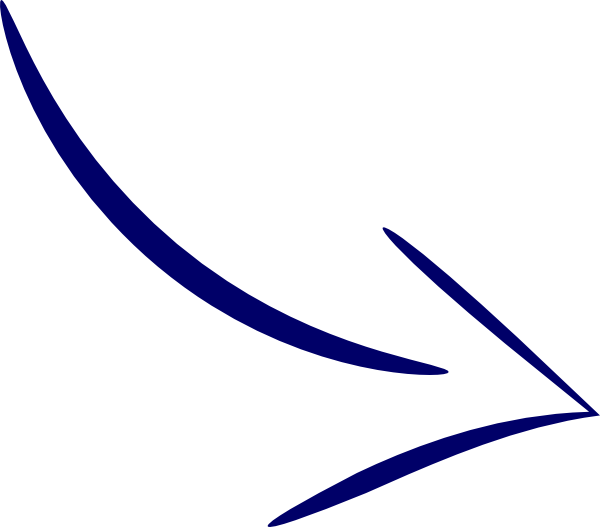
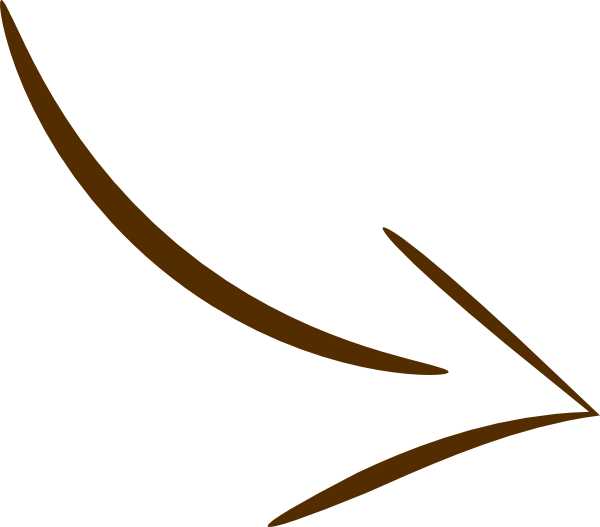
Design Changes

Changed region(s): [[0.0, 0.0, 0.75, 0.7287], [0.45, 0.425, 1.0, 1.0]]

diff --git a/src/components/HomePage.vue b/src/components/HomePage.vue
@@ -1,21 +1,24 @@
 <template>
-  <div>
-    <h1>
-      Time transforms everything.
-    </h1>
+  <div class="main-info">
+    <h1 class="intro">Time transforms everything.</h1>
     <img src="https://live.staticflickr.com/121/313964396_4b6d90497e_b.jpg" />
     <p>
-      As the years go by, <b>people</b>, <b>natural landscapes</b>, <b>cities</b> and all aspects of
-      <b>human civilization</b>
+      As the years go by, <b class="emphasized">people</b>,
+      <b class="emphasized">natural landscapes</b>, <b class="emphasized">cities</b> and all aspects
+      of
+      <b class="emphasized">human civilization</b>
       are changing.
     </p>
     <p>
-      The photos are time imprints and the idea for this app is to make use of photo collections
-      that will connect the user easily and quickly to the recent past.
+      The photos are <b class="emphasized">time imprints</b> and the idea for this app is to make
+      use of <b class="emphasized">photo collections</b> that will connect the user easily and
+      quickly to the <b class="emphasized">recent past</b>.
     </p>
     <p>
-      This can help us learn <b>history</b>, understand the <b>evolution</b>, appreciate what we
-      have gained with <b>progress</b>, and even reflect on what we have <b>lost</b>....
+      This can help us learn <b class="emphasized">history</b>, understand
+      <b class="emphasized">evolution</b>, appreciate what we have gained with
+      <b class="emphasized">progress</b>, and even reflect on what we have
+      <b class="emphasized">lost</b>....
     </p>
     <h1>
       Welcome, to<br />
@@ -31,20 +34,34 @@ export default {
 </script>
 
 <style scoped>
+.intro {
+  font-size: 35px;
+  color: black;
+}
+.main-info {
+  margin: 3% 25%;
+  padding: 2% 0;
+  background: #682f0050;
+  border-radius: 20%;
+}
+.emphasized {
+  font-size: 110%;
+  color: black;
+}
 h1 {
   margin-top: 2%;
 }
 img {
-  width: 12%;
+  width: 20%;
   border-radius: 50%;
 }
 p {
   font-size: 26px;
-  margin: 3% 20%;
+  margin: 3% 10%;
 }
 .title-app {
   font-size: 150%;
-  color: rgb(14, 39, 103);
+  color: #682f00;
   margin-top: 20px;
 }
 </style>

diff --git a/src/components/Photos.vue b/src/components/Photos.vue
@@ -26,7 +26,7 @@
             <div class="time-rail">Timespan: {{ photo.timespan }}</div>
           </div>
 
-          <div class="photo-info">
+          <div class="photo-info" psda>
             <h1>{{ photo.title }}</h1>
             <h2>{{ photo.location_text }}, {{ photo.country }}</h2>
           </div>
@@ -66,12 +66,14 @@ export default {
 .back-year {
   width: 100%;
   margin: 0 40%;
+  user-select: none;
 }
 .time-arrow {
   z-index: 100;
   position: absolute;
   top: 175%;
   right: 31%;
+  user-select: none;
 }
 .hooper-container {
   margin-top: 30px;
@@ -86,14 +88,14 @@ export default {
   text-decoration: underline;
 }
 .left-image {
-  border: 15px solid darkblue;
+  border: 15px solid darkslategray;
   border-radius: 20px;
   width: 85% !important;
   max-height: 700px !important;
 }
 .right-image {
   border-radius: 20px;
-  border: 15px solid darkslategray;
+  border: 15px solid #682f00;
   width: 85% !important;
   max-height: 700px !important;
 }
@@ -117,19 +119,19 @@ export default {
   cursor: ew-resize !important;
   transform: rotate(90deg);
   opacity: 0.6;
-  border: 5px solid rgb(14, 39, 103) !important;
+  border: 5px solid rgb(51, 28, 12) !important;
 }
 .left-arrow {
-  border-color: rgba(0, 0, 0, 0) rgb(14, 39, 103) rgba(0, 0, 0, 0) rgba(0, 0, 0, 0) !important;
+  border-color: rgba(0, 0, 0, 0) rgb(51, 28, 12) rgba(0, 0, 0, 0) rgba(0, 0, 0, 0) !important;
 }
 .right-arrow {
-  border-color: rgba(0, 0, 0, 0) rgba(0, 0, 0, 0) rgba(0, 0, 0, 0) rgb(14, 39, 103) !important;
+  border-color: rgba(0, 0, 0, 0) rgba(0, 0, 0, 0) rgba(0, 0, 0, 0) rgb(51, 28, 12) !important;
 }
 .line {
   width: 0px !important;
 }
 .now-then {
-  color: black;
+  color: rgb(51, 28, 12);
   font-size: 18px;
   height: 20px;
   margin: 5px 0px 15px 0px;

diff --git a/src/components/Header.vue b/src/components/Header.vue
@@ -47,7 +47,7 @@ export default {
   padding-bottom: 10px;
   border-bottom: 5px solid rgba(37, 35, 35, 0.7);
   font-size: 35px;
-  color: rgb(14, 39, 103);
+  color: #682f00;
 }
 #nav {
   margin-top: 20px;
@@ -56,7 +56,7 @@ export default {
 .header a {
   font-weight: bold;
   font-size: 22px !important;
-  color: rgb(14, 39, 103);
+  color: darkslategray;
   text-decoration: none;
 }
 img {

diff --git a/src/views/Photos.vue b/src/views/Photos.vue
@@ -62,13 +62,13 @@ export default {
 <style>
 .page-title {
   margin: 15px 30% 15px 30%;
-  background: rgb(14, 39, 103);
+  background: #682f00;
   color: white;
   border-radius: 20px;
 }
 .page-nav {
   padding: 0 20px;
-  border: 2px solid rgb(10, 39, 78);
+  border: 2px solid darkslategray;
   border-radius: 20px;
   background: lightgray;
   margin: 0 35% 0 35%;

diff --git a/src/App.vue b/src/App.vue
@@ -22,7 +22,7 @@ export default {
   -webkit-font-smoothing: antialiased;
   -moz-osx-font-smoothing: grayscale;
   text-align: center;
-  color: black;
+  color: rgb(51, 28, 12);
 }
 
 body {
